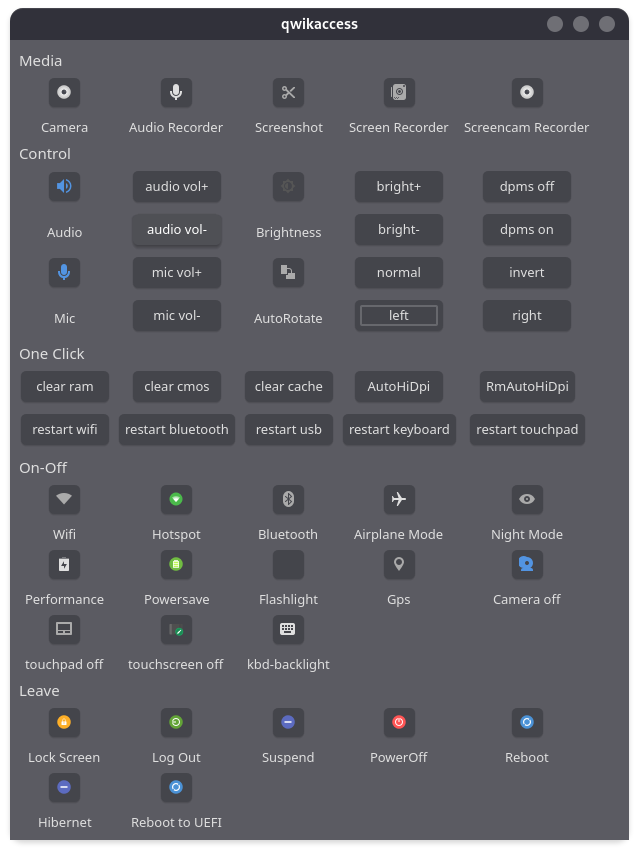
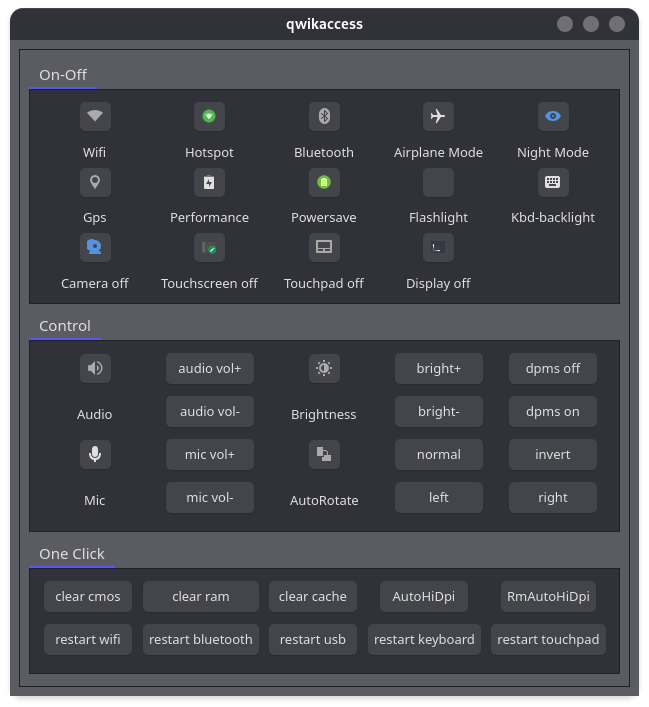
ui improvements

diff --git a/qwikaccess.cpp b/qwikaccess.cpp
@@ -587,18 +587,9 @@ void qwikaccess::on_toolButton_suspenthenhibernate_clicked()
             proc.waitForFinished(400);
 }
 
-void qwikaccess::on_toolButton_displayoff_clicked(bool checked)
+void qwikaccess::on_toolButton_displayoff_clicked()
 {
-    if(checked) //on
-    {
-        QProcess proc;
-                proc.startDetached("/bin/sh", QStringList()<< "/usr/share/qwikaccess/scripts/dpms-off.sh");
-                proc.waitForFinished(400);
-    }
-    else //off
-    {
-        QProcess proc;
-                proc.startDetached("/bin/sh", QStringList()<< "/usr/share/qwikaccess/scripts/dpms-on.sh");
-                proc.waitForFinished(400);
-    }
+    QProcess proc;
+            proc.startDetached("/bin/sh", QStringList()<< "/usr/share/qwikaccess/scripts/dpms-off.sh");
+            proc.waitForFinished(400);
 }

diff --git a/qwikaccess.h b/qwikaccess.h
@@ -123,7 +123,7 @@ private slots:
 
     void on_toolButton_suspenthenhibernate_clicked();
 
-    void on_toolButton_displayoff_clicked(bool checked);
+    void on_toolButton_displayoff_clicked();
 
 private:
     Ui::qwikaccess *ui;
